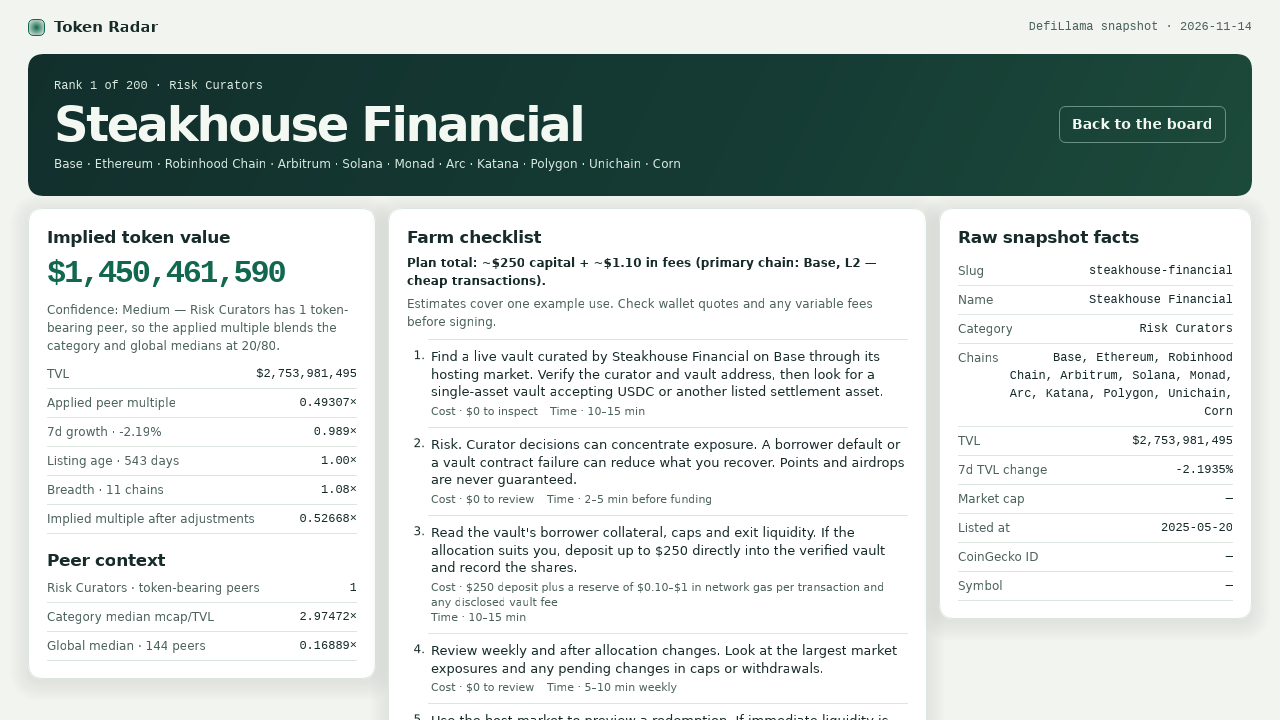
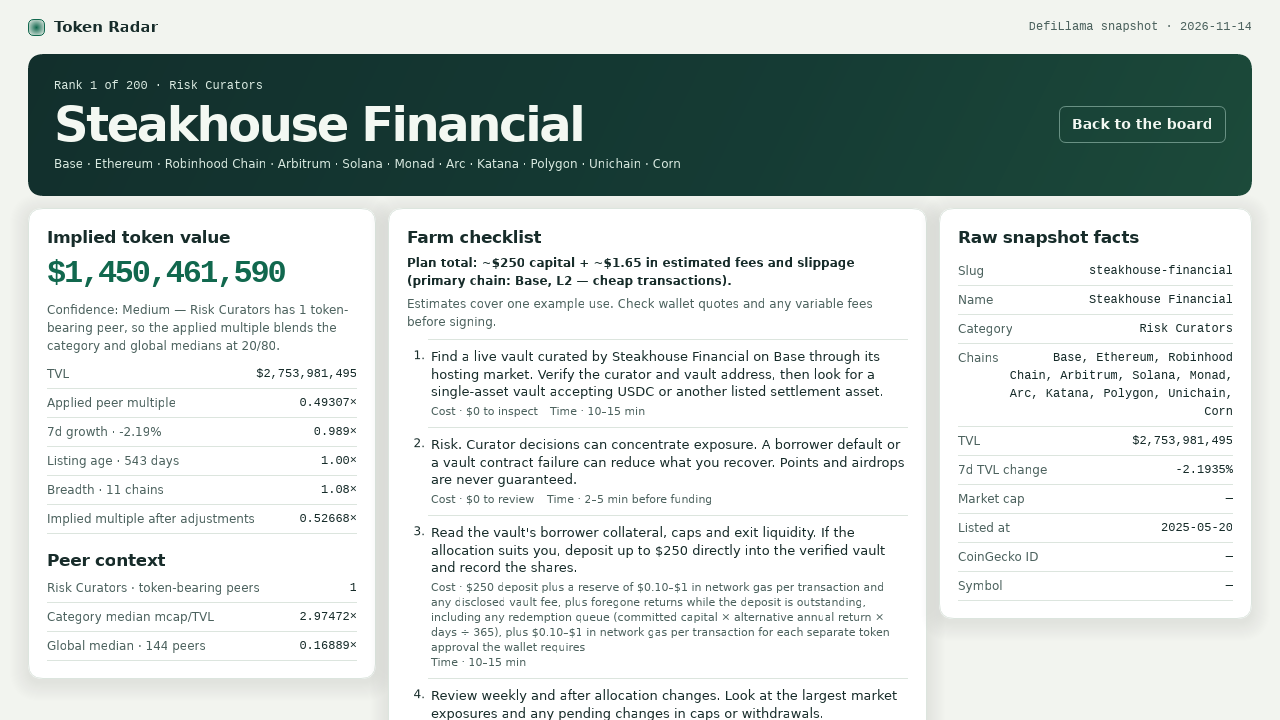
Pre-submission review pass: exact blend wording, tier definitions, clamp sensitivity, farm cost completeness

Changed region(s): [[0.3125, 0.825, 0.7188, 1.0], [0.4688, 0.3361, 0.6875, 0.3972], [0.3125, 0.3667, 0.4375, 0.3972]]

diff --git a/lib/farm.ts b/lib/farm.ts
@@ -8,6 +8,7 @@ interface PlanContext {
   testSize: number;
   gas: FeeEstimate;
   transactionGas?: FeeEstimate;
+  approval?: FeeEstimate;
 }
 
 type ChainClass = 'ethereum-mainnet' | 'l2' | 'solana' | 'alt-l1' | 'generic';
@@ -41,11 +42,12 @@ function midpoint(amount: Amount): number {
   return typeof amount === 'number' ? amount : (amount[0] + amount[1]) / 2;
 }
 
-function step(action: string, cost: string, time: string, capital: Amount = 0, fee?: FeeEstimate): FarmStep {
+function step(action: string, cost: string, time: string, capital: Amount = 0, fee?: FeeEstimate, ...estimates: (FeeEstimate | undefined)[]): FarmStep {
+  const allowances = estimates.filter((estimate) => estimate !== undefined);
   return {
-    text: `${action} Cost: ${cost}. Time: ${time}.`,
+    text: `${action} Cost: ${[cost, ...allowances.map(({ text }) => text)].join(', plus ')}. Time: ${time}.`,
     capital_usd: midpoint(capital),
-    fees_usd: fee?.usd ?? 0,
+    fees_usd: allowances.reduce((total, estimate) => total + estimate.usd, fee?.usd ?? 0),
   };
 }
 
@@ -85,6 +87,8 @@ function feeRange(low: number, high: number, description: string): FeeEstimate {
 const ETH_RESERVE = feeRange(5, 30, 'in ETH gas');
 const BTC_RESERVE = feeRange(2, 20, 'in BTC network fees');
 const GENERIC_RESERVE = feeRange(1, 10, 'in native network fees as a starting reserve');
+const ETH_APPROVAL_GAS = feeRange(1, 5, 'in ETH gas');
+const GENERIC_APPROVAL_GAS = feeRange(0.50, 5, 'in native network fees');
 const BRIDGE_RESERVE = feeRange(1, 5, 'in bridge and relay fees for the test route');
 const TRANSACTION_GAS = {
   l2: feeRange(0.10, 1, 'in network gas per transaction'),
@@ -116,6 +120,17 @@ function gasQuote(quote: string, transactionGas?: FeeEstimate): string {
   return transactionGas ? `${quote} (${transactionGas.text})` : quote;
 }
 
+const SWAP_SLIPPAGE = '0.10%–0.50% of the swapped amount for slippage';
+
+function swapSlippage(amount: number): FeeEstimate {
+  const estimate = feeRange(amount * 0.001, amount * 0.005, 'at the example size');
+  return { ...estimate, text: `${SWAP_SLIPPAGE} (${estimate.text})` };
+}
+
+function opportunityCost(period: string): string {
+  return `foregone returns ${period} (committed capital × alternative annual return × days ÷ 365)`;
+}
+
 function capitalFor(tvl: number): number {
   if (tvl >= 1e9) return 250;
   if (tvl >= 250e6) return 150;
@@ -123,66 +138,66 @@ function capitalFor(tvl: number): number {
   return 50;
 }
 
-const dex: Playbook = ({ name, chain, asset, capital, testSize, gas, transactionGas }) => [
+const dex: Playbook = ({ name, chain, asset, capital, testSize, gas, transactionGas, approval }) => [
   step(`On ${chain}, open ${name}'s swap or spot market. Verify token identifiers, market depth and the minimum output for a small quote around ${asset}.`, '$0 to quote', '5–10 min'),
   risk('Thin markets create slippage, and an LP position can underperform holding the same assets.'),
-  step(`Swap up to $${testSize} into a supported asset you already intend to use. Leave the rest of the $${capital} budget uncommitted while checking execution price.`, `$${testSize} trade capital, plus a reserve of ${gas.text} and the quoted trading fee`, '5–15 min', testSize, gas),
-  step('Compare the fill with the quote. If you want LP exposure and the venue accepts passive liquidity, check the pool fee, deposit ratio and withdrawal terms before adding the two assets.', 'same budget plus any quoted approval and pool fees', '10–20 min once'),
-  step('Review the market weekly if you hold a position. Remove liquidity when finished, or repeat a swap only when you need to rebalance.', gasQuote('wallet-quoted gas', transactionGas) + ' and swap fees on each return', '5–15 min per visit', 0, transactionGas),
+  step(`Swap up to $${testSize} into a supported asset you already intend to use. Leave the rest of the $${capital} budget uncommitted while checking execution price.`, `$${testSize} trade capital, plus a reserve of ${gas.text} and the quoted trading fee`, '5–15 min', testSize, gas, approval, swapSlippage(testSize)),
+  step('Compare the fill with the quote. If you want LP exposure and the venue accepts passive liquidity, check the pool fee, deposit ratio and withdrawal terms before adding the two assets.', `same budget plus quoted pool fees${approval ? `. For an optional LP deposit, budget separately for up to two approvals at ${approval.text}` : ''}. Allow for ${opportunityCost('while liquidity is deposited')}`, '10–20 min once'),
+  step('Review the market weekly if you hold a position. Remove liquidity when finished, or repeat a swap only when you need to rebalance.', gasQuote('wallet-quoted gas', transactionGas) + ` and swap fees on each return, plus ${SWAP_SLIPPAGE} on any repeat swap`, '5–15 min per visit', 0, transactionGas),
 ];
 
-const lending: Playbook = ({ name, chain, asset, capital, gas, transactionGas }) => [
+const lending: Playbook = ({ name, chain, asset, capital, gas, transactionGas, approval }) => [
   step(`Open a ${name} supply market on ${chain}. Find ${asset} in the supported list and check the supply cap, available withdrawal liquidity and minimum size.`, '$0 to inspect', '5–10 min'),
   risk('Contract failures or bad debt can impair withdrawals, and borrowed positions can be liquidated.'),
-  step(`Supply up to $${capital} of the supported asset. Leave collateral use disabled if the market permits it and your goal is to lend.`, `$${capital} deposit plus a reserve of ${gas.text}`, '5–15 min', capital, gas),
+  step(`Supply up to $${capital} of the supported asset. Leave collateral use disabled if the market permits it and your goal is to lend.`, `$${capital} deposit plus a reserve of ${gas.text}, plus ${opportunityCost('while the deposit is outstanding')}`, '5–15 min', capital, gas, approval),
   step('Check the rate and withdrawal liquidity weekly. Before any separate borrow, confirm terms and liquidation limits. Track the health factor daily if you open debt.', '$0 to monitor, plus variable interest on any debt', '5–10 min per review'),
   step('Repay any outstanding debt and withdraw the supplied asset when finished. If liquidity is tight, check when the market can service a withdrawal.', gasQuote('wallet-quoted exit gas', transactionGas) + ' and any unpaid interest', '5–15 min plus any liquidity wait', 0, transactionGas),
 ];
 
-const bridge: Playbook = ({ name, chain, asset, capital, testSize, gas }) => [
+const bridge: Playbook = ({ name, chain, asset, capital, testSize, gas, approval }) => [
   step(`In ${name}, find a supported route touching ${chain}. Check direction, token identifier, destination wallet and the return route. Quote ${asset} only if the route lists it.`, '$0 to quote', '5–10 min'),
   risk('Validator or contract failure can leave funds stranded, and canonical exits can take several days.'),
-  step(`Send a test of up to $${testSize} above the route minimum and within a $${capital} transfer budget. Keep the destination chain's fee token available before sending.`, `$${testSize} test capital, a reserve of ${gas.text}`, '5–15 min to submit', testSize, gas),
-  step('Verify the destination balance and token identifier. If the route requires a separate claim, use the published bridge interface and keep the transfer hash.', 'quoted destination gas if a claim is required', 'minutes to days depending on route'),
+  step(`Send a test of up to $${testSize} above the route minimum and within a $${capital} transfer budget. Keep the destination chain's fee token available before sending.`, `$${testSize} test capital, a reserve of ${gas.text}`, '5–15 min to submit', testSize, gas, approval),
+  step('Verify the destination balance and token identifier. If the route requires a separate claim, use the published bridge interface and keep the transfer hash.', `quoted destination gas if a claim is required, plus ${opportunityCost('while funds are in transit')}`, 'minutes to days depending on route'),
   step('Repeat only when moving funds between those networks again. Check the return quote and finality window before bringing funds back.', 'new route quote and network fees for each transfer', '5–10 min to recheck'),
 ];
 
-const yieldVault: Playbook = ({ name, chain, asset, capital, gas, transactionGas }) => [
+const yieldVault: Playbook = ({ name, chain, asset, capital, gas, transactionGas, approval }) => [
   step(`On ${chain}, check whether ${name} offers a vault or yield market accepting ${asset}. Read the strategy, underlying exposures, fees and redemption window first.`, '$0 to inspect', '10–15 min'),
   risk('A headline yield can change quickly, and strategy losses or withdrawal queues may affect principal.'),
-  step(`If there is an eligible deposit or purchase, use up to $${capital} in its listed asset. Record the share or position balance and its redemption terms.`, `$${capital} capital plus a reserve of ${gas.text} and any quoted entry fee`, '5–15 min', capital, gas),
-  step('Review weekly for changes in redemption liquidity, share value and underlying exposure. Add capital only if the new terms still suit you.', '$0 to review, plus ' + gasQuote('wallet-quoted gas', transactionGas) + ' for any new deposit', '5–10 min weekly'),
-  step('When leaving, request redemption or sell through the documented exit. Check whether you must return later to finalize a withdrawal.', gasQuote('wallet-quoted exit gas', transactionGas) + ' plus any fee or sale slippage', '5–15 min plus any queue', 0, transactionGas),
+  step(`If there is an eligible deposit or purchase, use up to $${capital} in its listed asset. Record the share or position balance and its redemption terms.`, `$${capital} capital plus a reserve of ${gas.text} and any quoted entry fee, with ${SWAP_SLIPPAGE} if the purchase uses a swap`, '5–15 min', capital, gas, approval),
+  step('Review weekly for changes in redemption liquidity, share value and underlying exposure. Add capital only if the new terms still suit you.', '$0 to review, plus ' + gasQuote('wallet-quoted gas', transactionGas) + ` for any new deposit. Allow for ${opportunityCost('while capital is tied up, including any redemption queue')}`, '5–10 min weekly'),
+  step('When leaving, request redemption or sell through the documented exit. Check whether you must return later to finalize a withdrawal.', gasQuote('wallet-quoted exit gas', transactionGas) + ` plus any exit fee. If the exit uses a swap, allow ${SWAP_SLIPPAGE}`, '5–15 min plus any queue', 0, transactionGas),
 ];
 
-const curator: Playbook = ({ name, chain, asset, capital, gas, transactionGas }) => [
+const curator: Playbook = ({ name, chain, asset, capital, gas, transactionGas, approval }) => [
   step(`Find a live vault curated by ${name} on ${chain} through its hosting market. Verify the curator and vault address, then look for a single-asset vault accepting ${asset}.`, '$0 to inspect', '10–15 min'),
   risk('Curator decisions can concentrate exposure. A borrower default or a vault contract failure can reduce what you recover.'),
-  step(`Read the vault's borrower collateral, caps and exit liquidity. If the allocation suits you, deposit up to $${capital} directly into the verified vault and record the shares.`, `$${capital} deposit plus a reserve of ${gas.text} and any disclosed vault fee`, '10–15 min', capital, gas),
+  step(`Read the vault's borrower collateral, caps and exit liquidity. If the allocation suits you, deposit up to $${capital} directly into the verified vault and record the shares.`, `$${capital} deposit plus a reserve of ${gas.text} and any disclosed vault fee, plus ${opportunityCost('while the deposit is outstanding, including any redemption queue')}`, '10–15 min', capital, gas, approval),
   step('Review weekly and after allocation changes. Look at the largest market exposures and any pending changes in caps or withdrawals.', '$0 to review', '5–10 min weekly'),
   step('Use the host market to preview a redemption. If immediate liquidity is limited, use the documented queue or withdraw in smaller tranches only when needed.', gasQuote('wallet-quoted gas', transactionGas) + ' for each redemption', '5–15 min plus any queue', 0, transactionGas),
 ];
 
-const derivatives: Playbook = ({ name, chain, asset, capital, testSize, gas, transactionGas }) => [
+const derivatives: Playbook = ({ name, chain, asset, capital, testSize, gas, transactionGas, approval }) => [
   step(`Open ${name}'s derivatives interface on ${chain}. If it lists a perpetual market, check the margin asset, contract minimum, funding, trading fees and liquidation rules.`, '$0 to inspect', '10–15 min'),
   risk('Funding and liquidation can consume margin. A hedge can still lose money when the hedge and underlying diverge.'),
-  step(`If you already need a hedge, quote up to $${testSize} of notional at 1× effective leverage with isolated margin where available. Use ${asset} only if accepted, within a $${capital} budget. Open it only if the terms fit the hedge.`, `$${testSize} margin for that example, plus a reserve of ${gas.text} and quoted fees`, '5–15 min', testSize, gas),
+  step(`If you already need a hedge, quote up to $${testSize} of notional at 1× effective leverage with isolated margin where available. Use ${asset} only if accepted, within a $${capital} budget. Open it only if the terms fit the hedge.`, `$${testSize} margin for that example, plus a reserve of ${gas.text} and quoted fees, plus ${opportunityCost('while margin is committed')}`, '5–15 min', testSize, gas, approval),
   step('While the position is open, check margin and funding daily. Avoid adding trade volume solely to create a record of activity.', 'variable funding and any margin adjustment fees', '5 min daily'),
   step('When the hedge ends, close the position, confirm there is no remaining exposure and withdraw the available margin. Repeat only when you have a new hedge to make.', gasQuote('wallet-quoted gas', transactionGas) + ' plus closing and withdrawal fees', '5–15 min', 0, transactionGas),
 ];
 
-const cdp: Playbook = ({ name, chain, capital, gas, transactionGas }) => [
+const cdp: Playbook = ({ name, chain, capital, gas, transactionGas, approval }) => [
   step(`In ${name} on ${chain}, inspect the collateral list and choose a supported asset you already hold. Check the minimum debt, collateral ratio, liquidation penalty and stability fee.`, '$0 to inspect', '10–15 min'),
   risk('A collateral drawdown can trigger liquidation, and a depeg can make debt expensive to close.'),
-  step(`Preview locking up to $${capital} of that collateral and minting the protocol's stable asset. Proceed only if the debt minimum fits at a ratio comfortably above the liquidation threshold.`, `$${capital} in locked collateral plus a reserve of ${gas.text} and the stability fee`, '10–20 min', capital, gas),
+  step(`Preview locking up to $${capital} of that collateral and minting the protocol's stable asset. Proceed only if the debt minimum fits at a ratio comfortably above the liquidation threshold.`, `$${capital} in locked collateral plus a reserve of ${gas.text} and the stability fee, plus ${opportunityCost('while collateral is locked')}`, '10–20 min', capital, gas, approval),
   step('Keep minted funds available for repayment and monitor collateral headroom daily while debt is open. Repeat only if you need to draw more liquidity within the same risk limits.', '$0 to monitor, plus any accrued stability fee', '5–10 min daily'),
-  step('Repay the minted stable asset and fees, then withdraw the unlocked collateral. Verify the remaining debt is zero.', gasQuote('wallet-quoted gas', transactionGas) + ' and the outstanding debt plus fees', '5–15 min', 0, transactionGas),
+  step('Repay the minted stable asset and fees, then withdraw the unlocked collateral. Verify the remaining debt is zero.', gasQuote('wallet-quoted gas', transactionGas) + ' and the outstanding debt plus fees', '5–15 min', 0, transactionGas, approval),
 ];
 
-const staking: Playbook = ({ name, chain, capital, gas, transactionGas }) => [
+const staking: Playbook = ({ name, chain, capital, gas, transactionGas, approval }) => [
   step(`Check ${name}'s staking or delegation surface on ${chain}. Verify the stake asset, operator, minimum, unbonding time and what redemption returns.`, '$0 to inspect', '10–15 min'),
   risk('Slashing, receipt-token discounts and unbonding delays can reduce or delay what you recover.'),
-  step(`If direct deposits are supported, stake or delegate up to $${capital} of the listed asset. Record the receipt or delegation reference and leave enough balance for the exit.`, `$${capital} stake plus a reserve of ${gas.text} and any operator fee`, '5–15 min', capital, gas),
+  step(`If direct deposits are supported, stake or delegate up to $${capital} of the listed asset. Record the receipt or delegation reference and leave enough balance for the exit.`, `$${capital} stake plus a reserve of ${gas.text} and any operator fee, plus ${opportunityCost('while staked or unbonding')}`, '5–15 min', capital, gas, approval),
   step('Review the operator and withdrawal terms weekly. Add stake only when you intend to increase the underlying exposure.', '$0 to monitor, plus ' + gasQuote('fees for any new stake', transactionGas), '5 min weekly'),
   step('When finished, request unstaking through the documented exit. Check when the underlying can be claimed and whether claiming takes another signature.', gasQuote('wallet-quoted exit and claim fees', transactionGas), '5–10 min plus documented unbonding', 0, transactionGas),
 ];
@@ -190,15 +205,15 @@ const staking: Playbook = ({ name, chain, capital, gas, transactionGas }) => [
 const services: Playbook = ({ name, chain, capital, gas, transactionGas }) => [
   step(`Start with ${name}'s public documentation. Check whether it offers a retail product on ${chain}, which wallets are supported, and whether verification or regional restrictions apply.`, '$0 to inspect', '10–15 min'),
   risk('Provider custody, product eligibility and withdrawal restrictions depend on the service.'),
-  step(`Preview one use of the documented product, such as a transfer to your own wallet if it supports payments. If the feature requires custody or a balance, review the withdrawal terms before committing any of the $${capital} test budget.`, `$0 if previewing only, or up to $${capital} plus a reserve of ${gas.text} for onchain use and any service fee`, '10–20 min plus any eligibility checks', capital, gas),
+  step(`Preview one use of the documented product, such as a transfer to your own wallet if it supports payments. If the feature requires custody or a balance, review the withdrawal terms before committing any of the $${capital} test budget.`, `$0 if previewing only, or up to $${capital} plus a reserve of ${gas.text} for onchain use and any service fee. If the service holds a balance, allow for ${opportunityCost('while funds are held')}`, '10–20 min plus any eligibility checks', capital, gas),
   step('If you proceed, verify the receipt or wallet balance and save the transaction reference. If there is no public action, finish after the preview.', '$0 to verify', '5–10 min'),
   step('Return only when you need the service again. Recover any remaining test balance through the published withdrawal path if the product holds funds.', gasQuote('quoted network and service fees on any repeat or withdrawal', transactionGas), '5–15 min per use', 0, transactionGas),
 ];
 
-const realWorldAssets: Playbook = ({ name, chain, asset, capital, gas, transactionGas }) => [
+const realWorldAssets: Playbook = ({ name, chain, asset, capital, gas, transactionGas, approval }) => [
   step(`Read ${name}'s offering and redemption terms on ${chain}. Check investor eligibility, identity verification, minimum subscription and what legal claim the receipt represents.`, '$0 to inspect', '15–25 min plus any verification'),
   risk('Issuer credit risk and offchain settlement can delay or impair redemptions.'),
-  step(`Preview a subscription of up to $${capital} if the minimum and eligibility allow it. Use ${asset} only if listed as a settlement asset and note the settlement date.`, `$${capital} if you subscribe, plus a reserve of ${gas.text} and disclosed subscription charges`, '10–15 min plus settlement', capital, gas),
+  step(`Preview a subscription of up to $${capital} if the minimum and eligibility allow it. Use ${asset} only if listed as a settlement asset and note the settlement date.`, `$${capital} if you subscribe, plus a reserve of ${gas.text} and disclosed subscription charges, plus ${opportunityCost('until redemption settles')}`, '10–15 min plus settlement', capital, gas, approval),
   step('Check the published NAV and next redemption window monthly. Subscribe again only when the legal and liquidity terms still suit you.', '$0 to review', '10 min monthly'),
   step('When exiting, use the issuer’s documented redemption process and retain the settlement confirmation.', gasQuote('quoted redemption and network fees', transactionGas), '10–15 min plus settlement', 0, transactionGas),
 ];
@@ -249,6 +264,13 @@ export function farmPlan(p: SnapshotProtocol): FarmPlan {
     ? undefined : TRANSACTION_GAS[chainClass];
   const gas = transactionGas ?? (chainClass === 'ethereum-mainnet' ? ETH_RESERVE
     : chain.trim().toLowerCase() === 'bitcoin' ? BTC_RESERVE : GENERIC_RESERVE);
+  // Allow for one separate approval at each applicable step of the example use.
+  const approvalGas = (gas === BTC_RESERVE || chainClass === 'solana') ? undefined
+    : transactionGas ?? (gas === ETH_RESERVE ? ETH_APPROVAL_GAS : GENERIC_APPROVAL_GAS);
+  const approval = approvalGas && {
+    ...approvalGas,
+    text: `${approvalGas.text} for each separate token approval the wallet requires`,
+  };
   const steps = playbook({
     name: p.name,
     chain,
@@ -257,6 +279,7 @@ export function farmPlan(p: SnapshotProtocol): FarmPlan {
     testSize: capital / 5,
     gas: playbook === bridge ? bridgeReserve(chain, p.chains, gas) : gas,
     transactionGas,
+    approval,
   });
   return {
     steps,

diff --git a/dashboard/app.js b/dashboard/app.js
@@ -186,24 +186,28 @@
   function renderMethod() {
     const m = data.model;
     const clamp = data.rows[0]?.model.peer_ratio_clamp;
-    const clampClause = clamp ? `, clamping each ratio to ${clampRange(clamp)} before taking medians` : '';
     setFacts('metrics', [
       ['Ranked protocols', String(data.board_size)],
       ['Watchlist covered', `${data.watchlist_size} / ${data.watchlist_size}`],
       ['Global peer median', multiple(data.global_peers.median)],
     ]);
     const body = byId('method-body');
-    body.append(element('p', `We compare market cap divided by TVL across ${data.global_peers.count} snapshot protocols with both figures${clampClause}. With at least ${m.min_category_peers} peers, the category median sets the starting multiple. Smaller groups blend toward the global median (${multiple(data.global_peers.median)}) using ${100 / m.min_category_peers}% category weight per peer. The blend uses log(1 + multiple). This shrinkage reduces the influence of a small peer sample on the applied multiple. With zero peers, the global median supplies the starting multiple.`));
+    body.append(element('p', `The sealed DefiLlama snapshot is as of ${data.as_of}. A peer multiple is market cap divided by total value locked (TVL). We use ${data.global_peers.count} token-bearing snapshot protocols with both figures and positive TVL.`));
+    if (clamp) {
+      body.append(element('p', `We clamp each peer ratio to ${clampRange(clamp)} before calculating the global and category medians to limit how much one extreme peer can move a small category’s median.`));
+    }
+    body.append(element('p', `High confidence means the category median applies directly because the category has at least ${m.min_category_peers} token-bearing peers. Medium confidence means the category has 1 to ${m.min_category_peers - 1} token-bearing peers, so its median is blended toward the global median (${multiple(data.global_peers.median)}) on the log(1 + multiple) scale, with ${100 / m.min_category_peers}% category weight per peer. Low confidence means the category has no token-bearing peers, so the global median applies.`));
     const example = groups.get('steakhouse-financial');
     if (example?.model.peer_source === 'shrunk_category_median') {
       const peer = example.model;
       const weight = Math.round(peer.category_weight * 100);
       const peers = peer.peer_count === 1 ? 'peer' : 'peers';
-      body.append(element('p', `Worked example — ${example.name}. ${categoryOf(example)} has ${peer.peer_count} token-bearing ${peers} with a ${peer.category_median_multiple.toFixed(2)}× median. The log-scale blend weights the category and global medians ${weight}/${100 - weight} (global median ${peer.global_median_multiple.toFixed(3)}×), yielding an applied multiple of ${peer.peer_multiple.toFixed(3)}×.`));
+      body.append(element('p', `Worked example — ${example.name}. ${categoryOf(example)} has ${peer.peer_count} token-bearing ${peers} with a ${peer.category_median_multiple.toFixed(2)}× median. We blend on the log(1 + multiple) scale using the peer count divided by ${m.min_category_peers} (the minimum for the category median to apply directly) as the category weight, capped at 100%. The category and global weights are ${weight}/${100 - weight} (global median ${peer.global_median_multiple.toFixed(3)}×), yielding an applied multiple of ${peer.peer_multiple.toFixed(3)}×.`));
     }
     body.append(
       element('p', `We apply ${100 * m.growth_weight}% of the seven-day TVL change, bounded to a ${multiplier(m.growth_floor)}–${multiplier(m.growth_cap)} multiplier. Listing age adjusts the value by ${change((m.new_multiplier - 1) * 100)} under ${m.new_age_days} days or ${change((m.old_multiplier - 1) * 100)} from ${m.old_age_days.toLocaleString('en-US')} days. Each additional chain adds up to ${change(m.breadth_per_extra_chain * 100)}, with a total bonus capped at ${change(m.breadth_bonus_cap * 100)}. Missing growth or listing age is neutral. We round the result to whole dollars, with a $1 floor.`),
-      element('p', `The board covers the sealed ${usd(data.floor_usd)} watchlist and ${data.early_size} eligible protocols below its floor. An implied value estimates a hypothetical market cap. The snapshot establishes what DefiLlama had on record as of ${data.as_of}.`),
+      element('p', `The board covers the sealed ${usd(data.floor_usd)} watchlist and ${data.early_size} eligible protocols below its floor. An implied value estimates a hypothetical market cap.`),
+      element('p', 'On the 2026-11-14 dev snapshot, relative to the [0.01, 3.0] clamp, Spearman rank correlations for the full board and watchlist were 0.99878 and 0.99456 with [0.005, 2], and 0.99962 and 0.99831 with [0.02, 5], respectively.'),
     );
   }
 
@@ -214,7 +218,7 @@
     if (summary) {
       const { capital_usd, fees_usd, primary_chain, chain_class } = summary;
       const capital = Number.isInteger(capital_usd) ? wholeUsd.format(capital_usd) : feeUsd.format(capital_usd);
-      total.textContent = `Plan total: ~${capital} capital + ~${feeUsd.format(fees_usd)} in fees (primary chain: ${primary_chain ?? 'unrecorded'}, ${chainFeeLabels[chain_class]}).`;
+      total.textContent = `Plan total: ~${capital} capital + ~${feeUsd.format(fees_usd)} in estimated fees and slippage (primary chain: ${primary_chain ?? 'unrecorded'}, ${chainFeeLabels[chain_class]}).`;
     }
     const saved = checkedSteps.get(row.slug) ?? new Set();
     if (interactive) checkedSteps.set(row.slug, saved);
